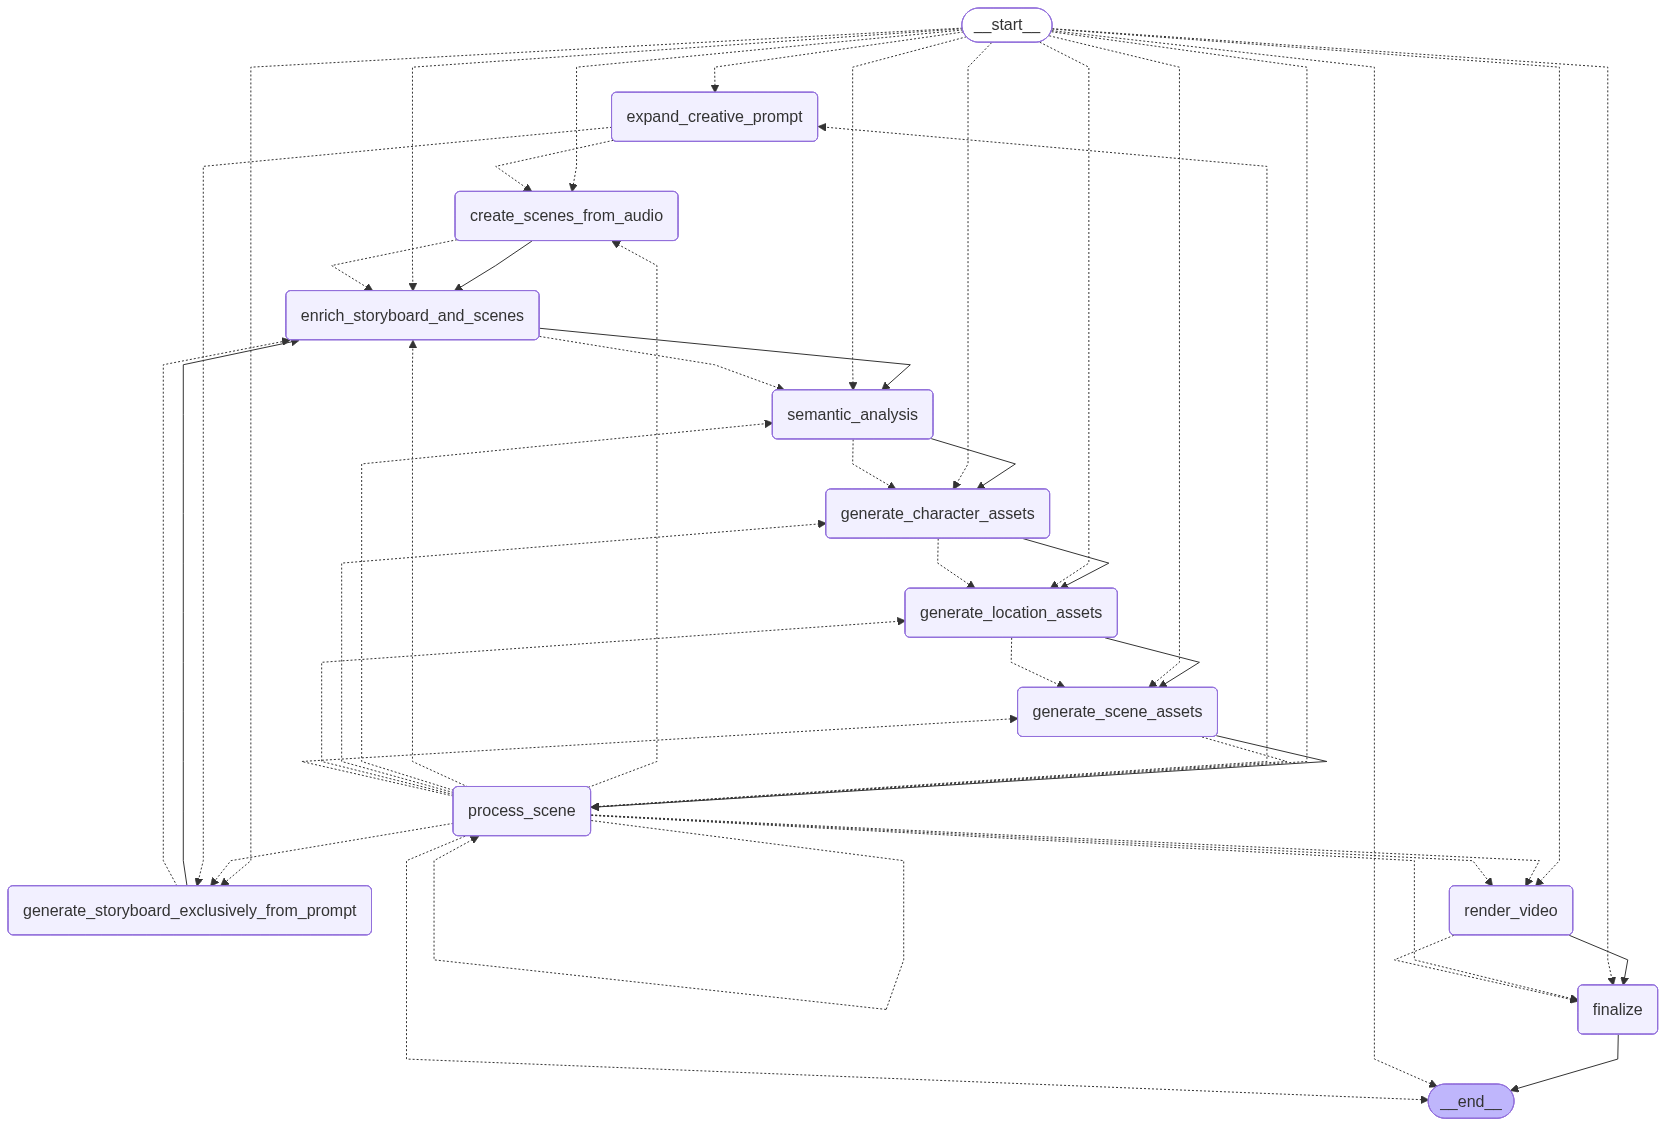
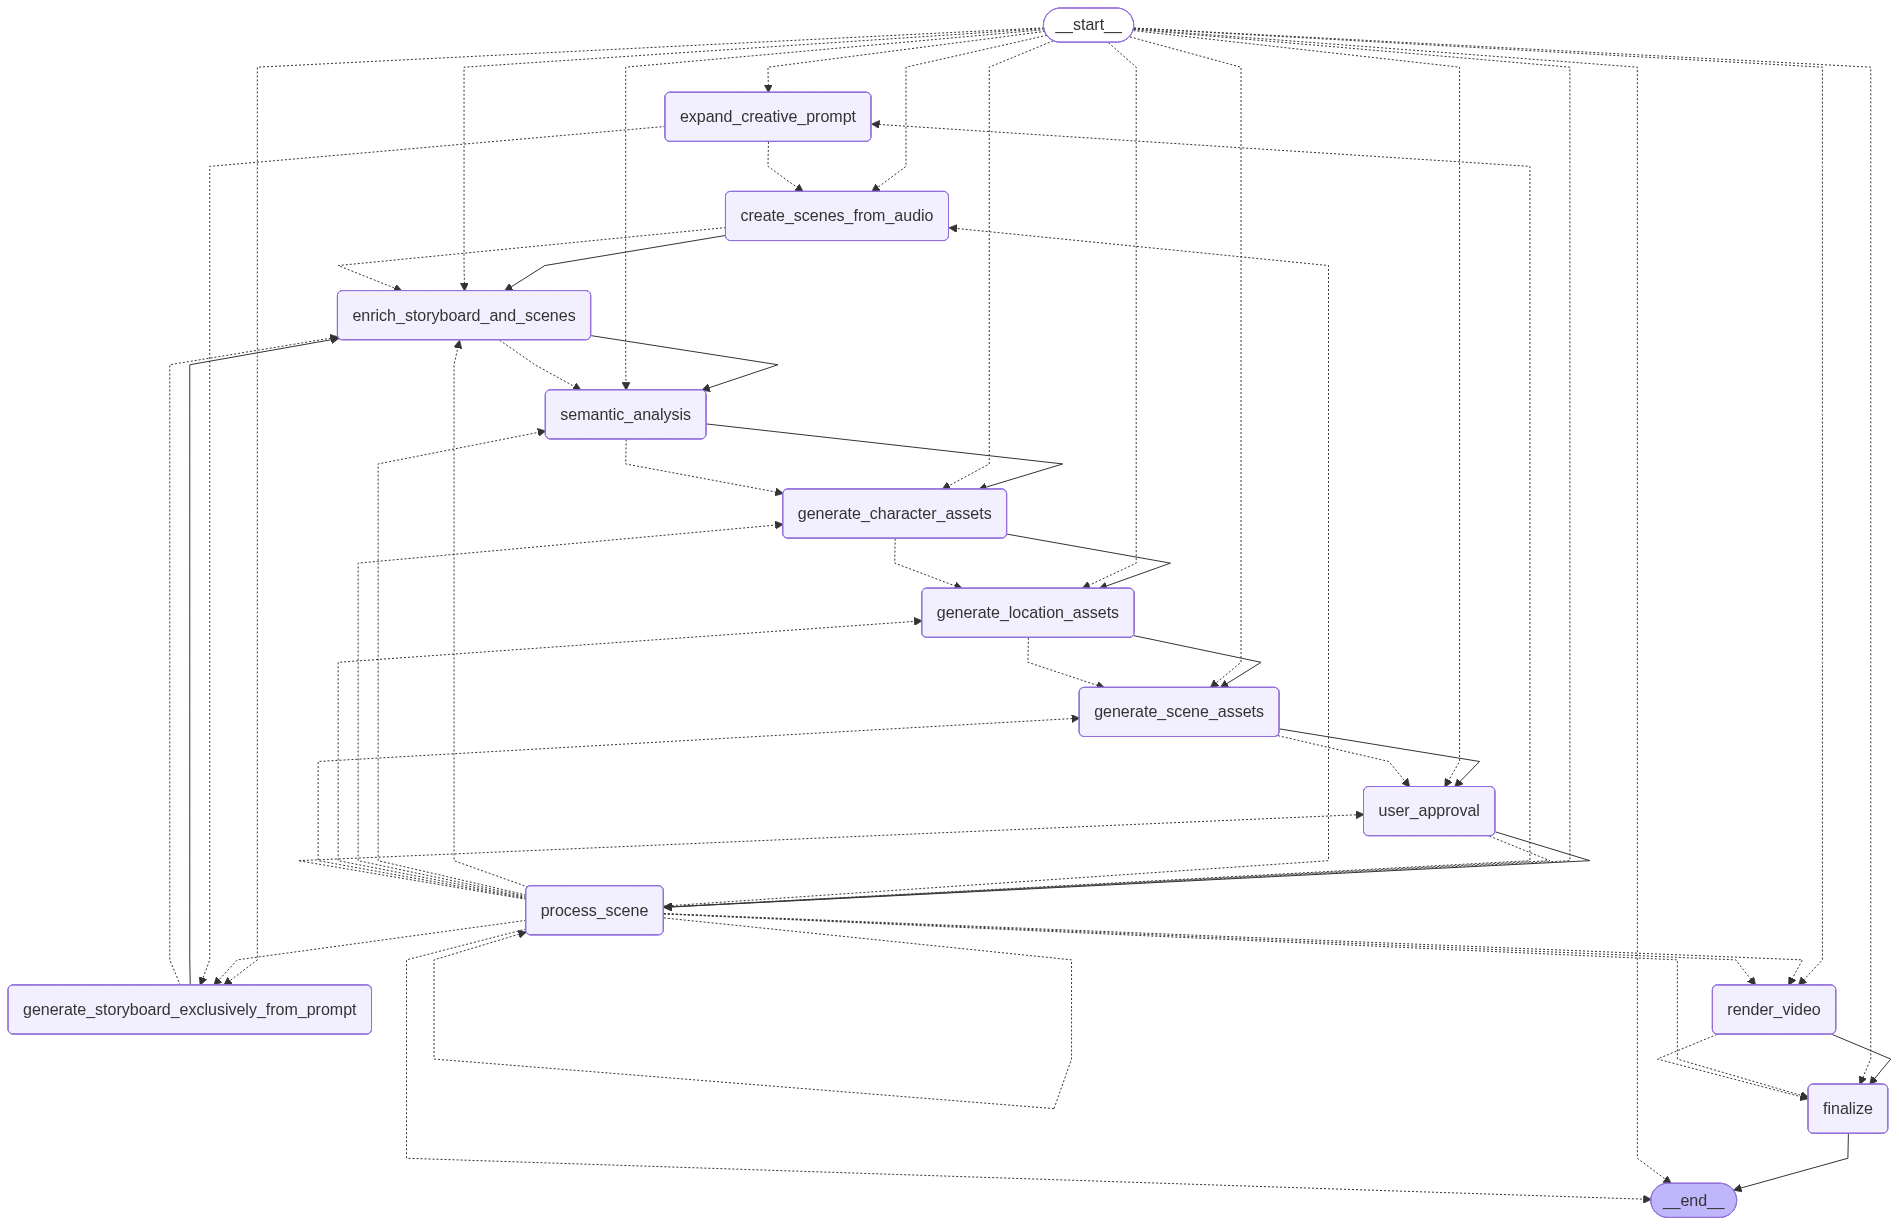
Fix Netlify build, unify content structure to singular 'content', and improve path robustness

diff --git a/website/lib/markdown.ts b/website/lib/markdown.ts
@@ -51,8 +51,8 @@ async function parseMdx<Frontmatter>(rawMdx: string) {
 
 const documentPath = (slug: string) => {
   return Settings.gitload
-    ? `${GitHubLink.href}/ra#/main/contents/docs/.js${slug}/index.mdx`
-    : path.join(process.cwd(), '/contents/docs/', `${slug}/index.mdx`)
+    ? `${GitHubLink.href}/main/content/docs/${slug}/index.mdx`
+    : path.join(process.cwd(), 'content/docs', `${slug}/index.mdx`)
 }
 
 const getDocumentPath = (() => {
@@ -112,7 +112,7 @@ export async function getTable(
   let rawMdx = ''
 
   if (Settings.gitload) {
-    const contentPath = `${GitHubLink.href}/ra#/main/contents/docs/.js${slug}/index.mdx`
+    const contentPath = `${GitHubLink.href}/main/content/docs/${slug}/index.mdx`
     try {
       const response = await fetch(contentPath)
       if (!response.ok) {
@@ -124,7 +124,7 @@ export async function getTable(
       return []
     }
   } else {
-    const contentPath = path.join(process.cwd(), '/contents/docs/', `${slug}/index.mdx`)
+    const contentPath = path.join(process.cwd(), 'content/docs', `${slug}/index.mdx`)
     try {
       const stream = createReadStream(contentPath, { encoding: 'utf-8' })
       for await (const chunk of stream) {

diff --git a/website/lib/updates.ts b/website/lib/updates.ts
@@ -10,6 +10,7 @@ import remarkGfm from 'remark-gfm';
 import matter from 'gray-matter';
 import yaml from 'js-yaml';
 import { components } from '#/lib/components';
+import { fileURLToPath } from 'url';
 
 export interface Author {
   name: string;
@@ -76,7 +77,10 @@ export async function getTable(
   return extractedHeadings;
 }
 
-const updatesDirectory = path.join(process.cwd(), 'contents/updates');
+
+const __filename = fileURLToPath(import.meta.url);
+const __dirname = path.dirname(__filename);
+const updatesDirectory = path.join(__dirname, '../content/updates');
 const authorsFile = path.join(updatesDirectory, 'authors.yml');
 
 let cachedAuthors: Record<string, Author> | null = null;

diff --git a/website/scripts/link-docs.js b/website/scripts/link-docs.js
@@ -1,9 +1,13 @@
 import fs from 'fs';
 import path from 'path';
+import { fileURLToPath } from 'url';
 
-const contentDir = path.join(process.cwd(), 'content');
+const __filename = fileURLToPath(import.meta.url);
+const __dirname = path.dirname(__filename);
+const websiteDir = path.resolve(__dirname, '..');
+const contentDir = path.join(websiteDir, 'content');
 const docsLink = path.join(contentDir, 'docs');
-const docsSource = path.join(process.cwd(), '../docs');
+const docsSource = path.join(websiteDir, '../docs');
 const relativeSource = path.relative(contentDir, docsSource);
 
 console.log(`Ensuring symlink: ${docsLink} -> ${relativeSource}`);

diff --git a/website/scripts/content.ts b/website/scripts/content.ts
@@ -10,8 +10,12 @@ import { visit } from 'unist-util-visit'
 import { Paths } from '#/lib/pageroutes';
 import { Documents } from '#/settings/documents'
 
-const docsDir = path.join(process.cwd(), 'contents/docs')
-const outputDir = path.join(process.cwd(), 'public', 'search-data')
+import { fileURLToPath } from 'url'
+
+const __filename = fileURLToPath(import.meta.url)
+const __dirname = path.dirname(__filename)
+const docsDir = path.join(__dirname, '../content/docs')
+const outputDir = path.join(__dirname, '../public/search-data')
 
 interface MdxJsxFlowElement extends Node {
   name: string
